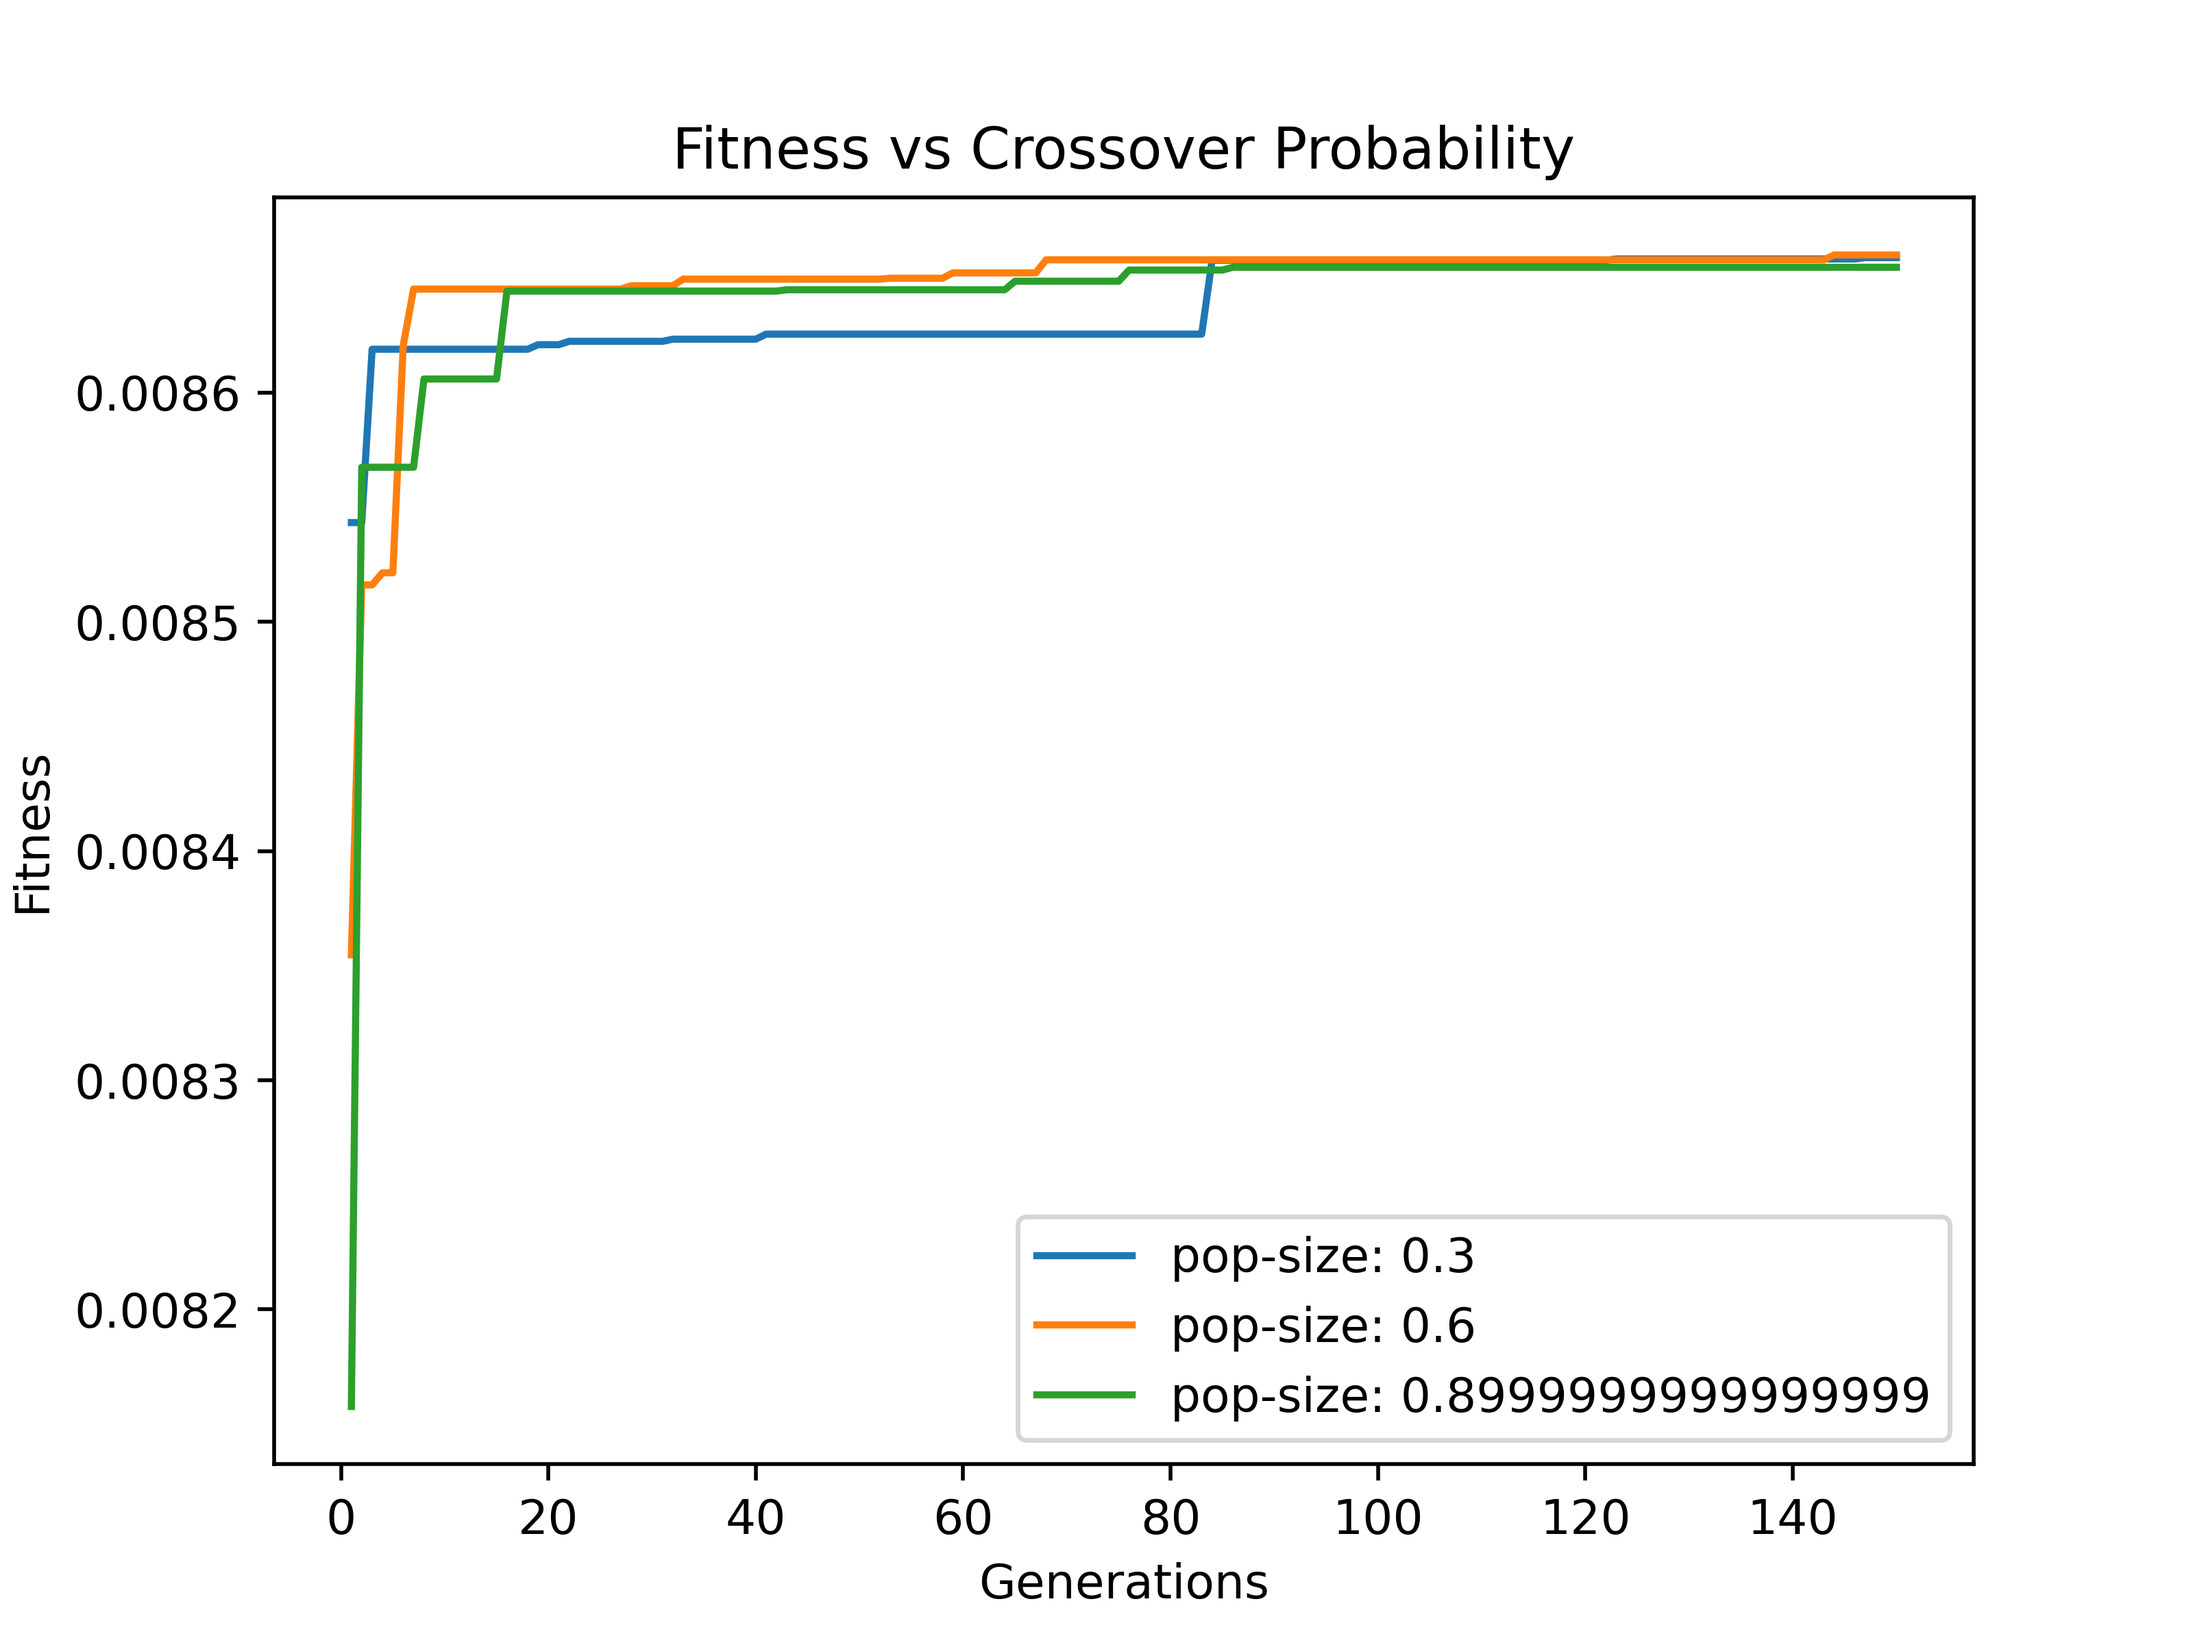
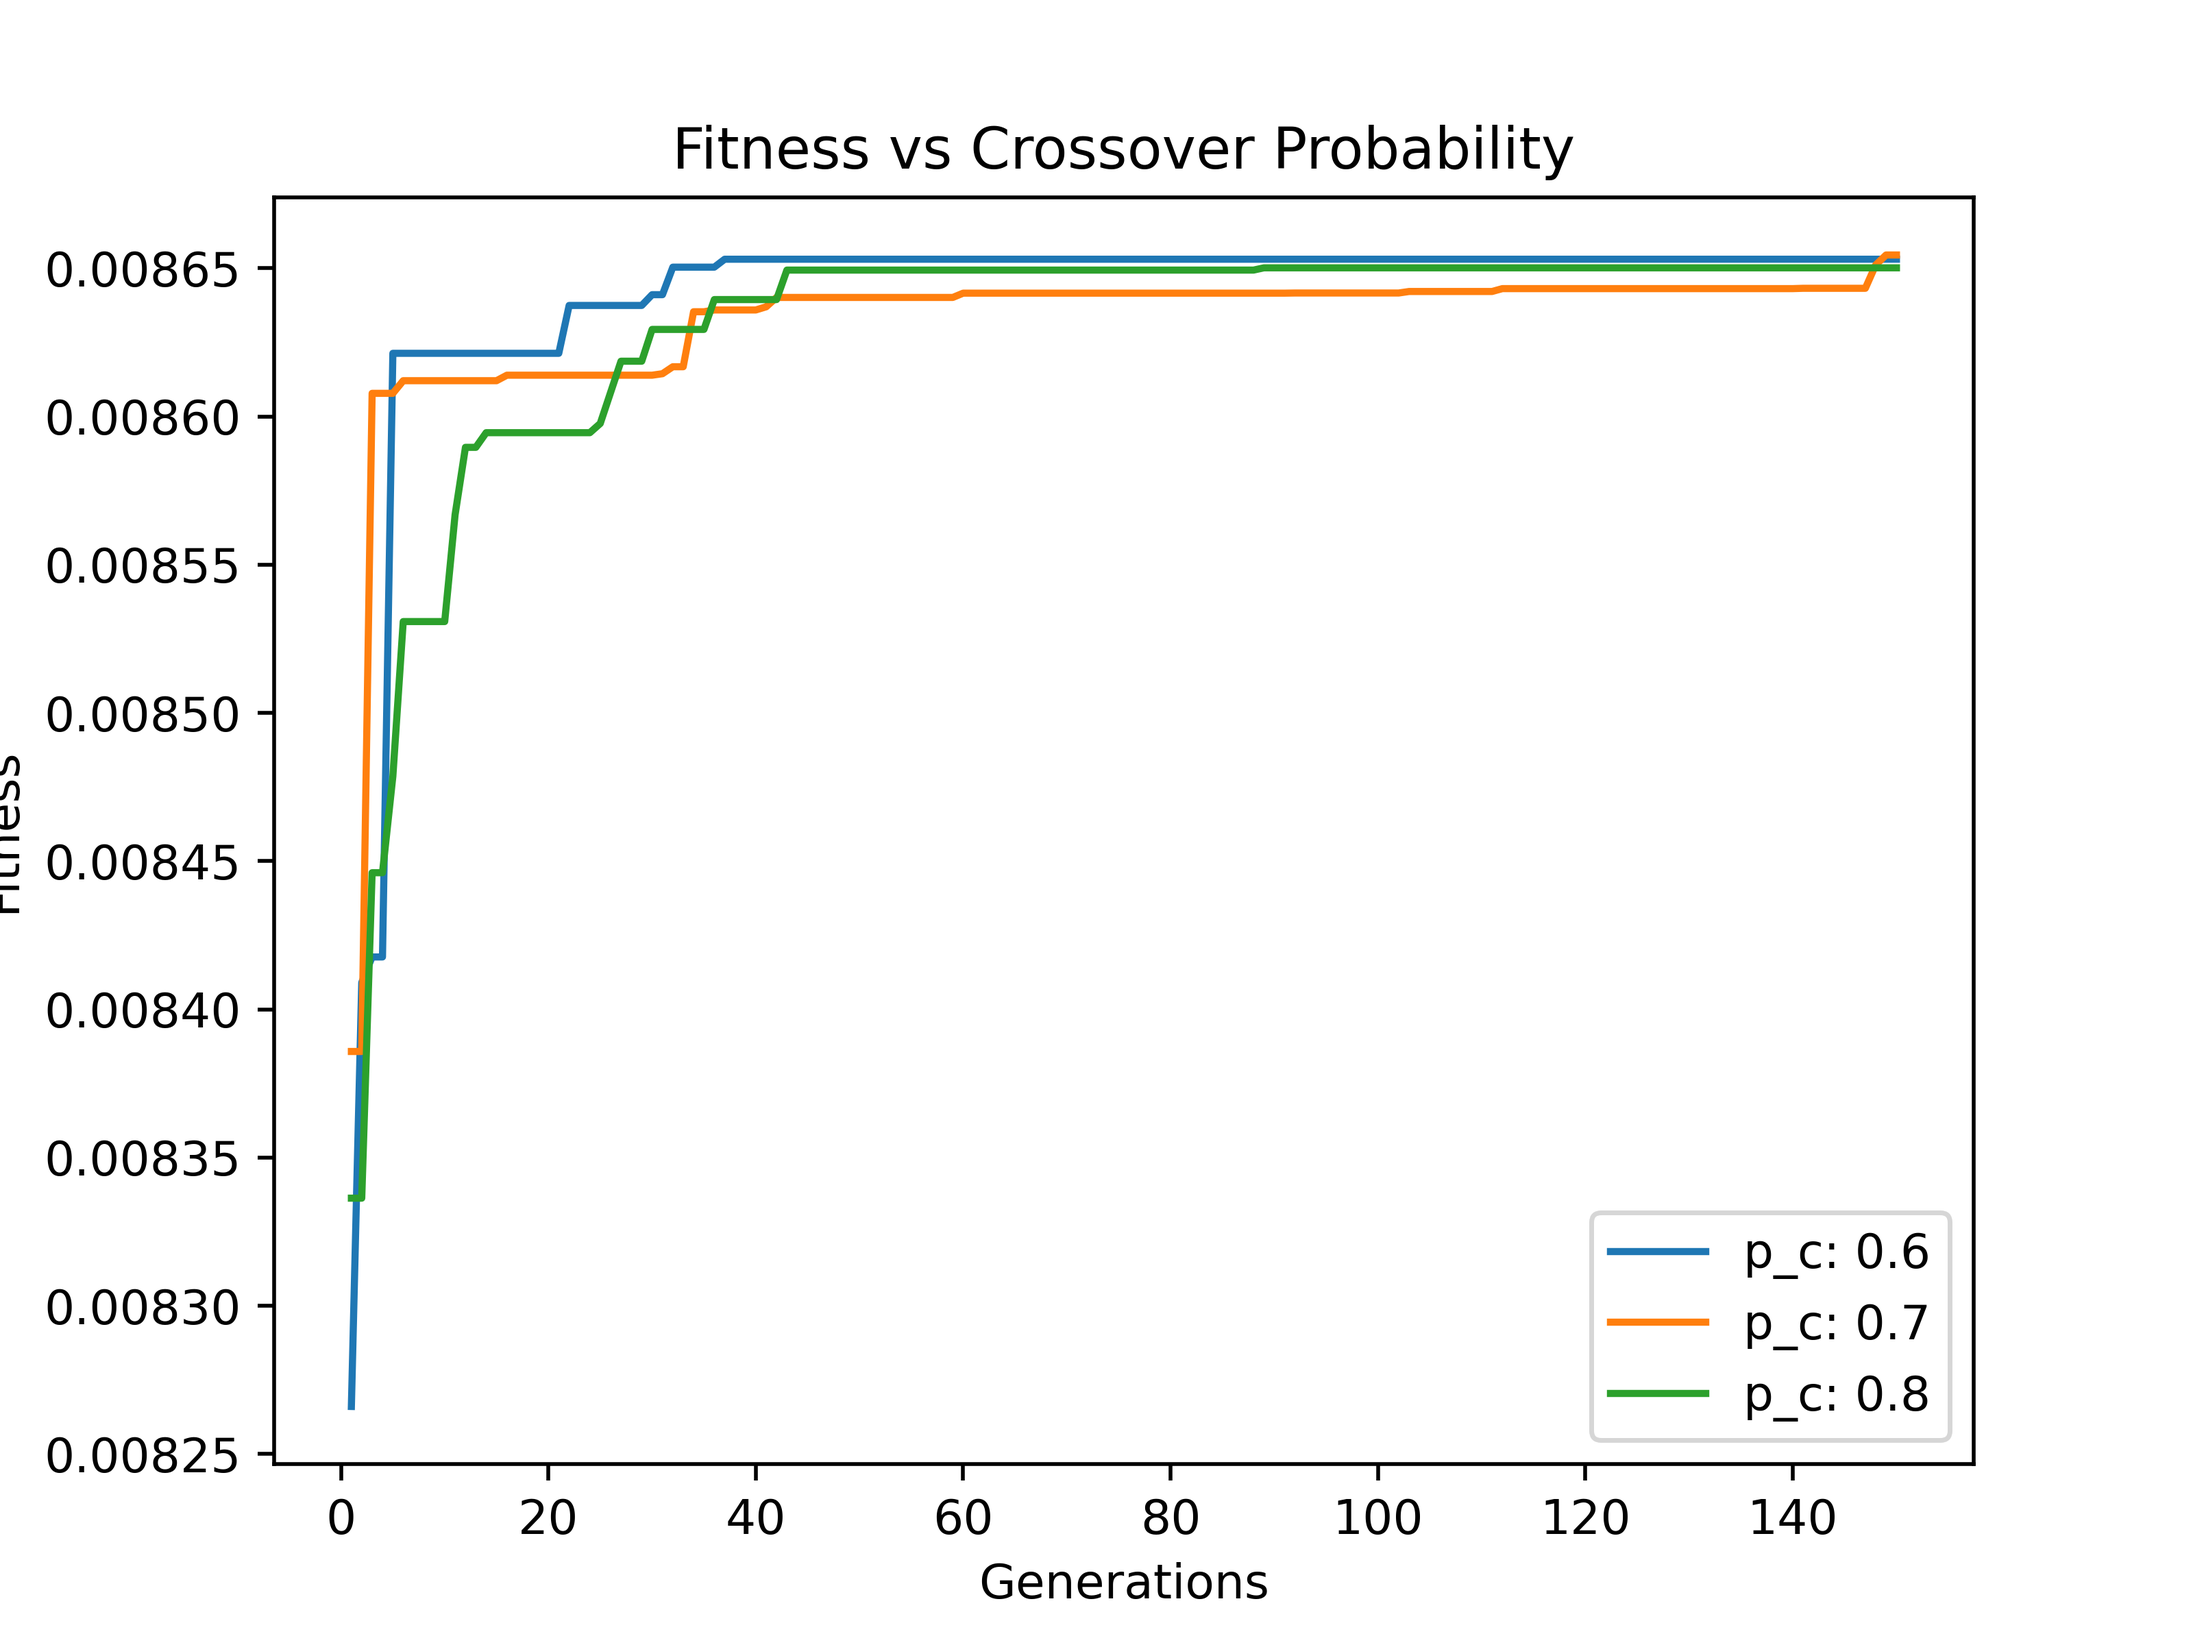
images

diff --git a/assignments/a3/genetic_algorithm.py b/assignments/a3/genetic_algorithm.py
@@ -99,7 +99,8 @@ if __name__ == "__main__":
         title = "Fitness vs Crossover Probability"
         data = []
         for i in range(3):
-            prob_crossover = (i+1)*0.3
+            # 0.6 -> 0.9
+            prob_crossover = 0.6+(i)*0.1
             pid = ProportionalIntegralDifferentialGAS(
                 prob_crossover=prob_crossover)
             data.append((f'p_c: {prob_crossover}', get_fitness(pid)))
@@ -109,7 +110,8 @@ if __name__ == "__main__":
         title = "Fitness vs Mutation Probability"
         data = []
         for i in range(3):
-            prob_mutation = (i+1)*0.125
+            # 0.3 -> 0.6
+            prob_mutation = 0.3 + (i)*0.1
             pid = ProportionalIntegralDifferentialGAS(
                 prob_mutation=prob_mutation)
             data.append((f'p_m: {prob_mutation}', get_fitness(pid)))
